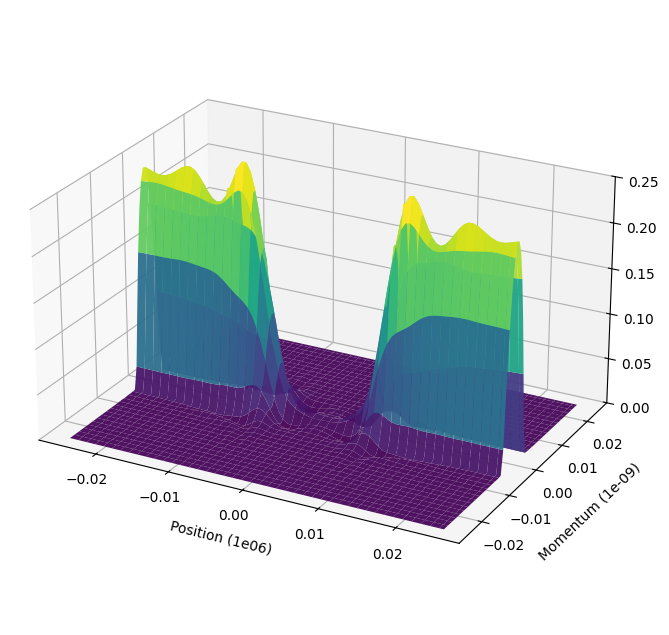
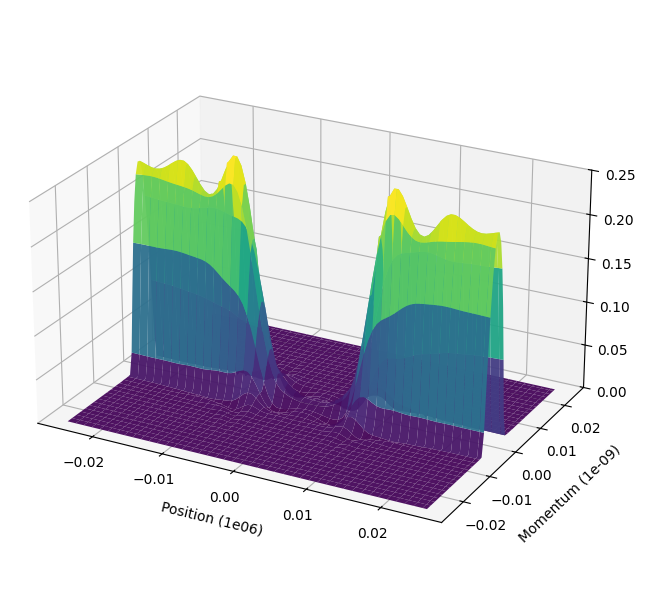
update files

diff --git a/docs/installation.rst b/docs/installation.rst
@@ -40,7 +40,14 @@ location, set ``LWW_TRANSPORT_OPENMP_INCLUDE`` and
 ``LWW_TRANSPORT_OPENMP_LIB`` before rebuilding. At runtime, use
 ``OPENMP_NUM_THREADS`` to control the number of OpenMP threads.
 
-Build the HTML documentation with:
+Documentation
+-------------
+
+The built documentation is hosted on GitHub Pages at:
+
+   https://antble.github.io/lww-usc/
+
+To build the HTML documentation locally:
 
 .. code-block:: bash
 